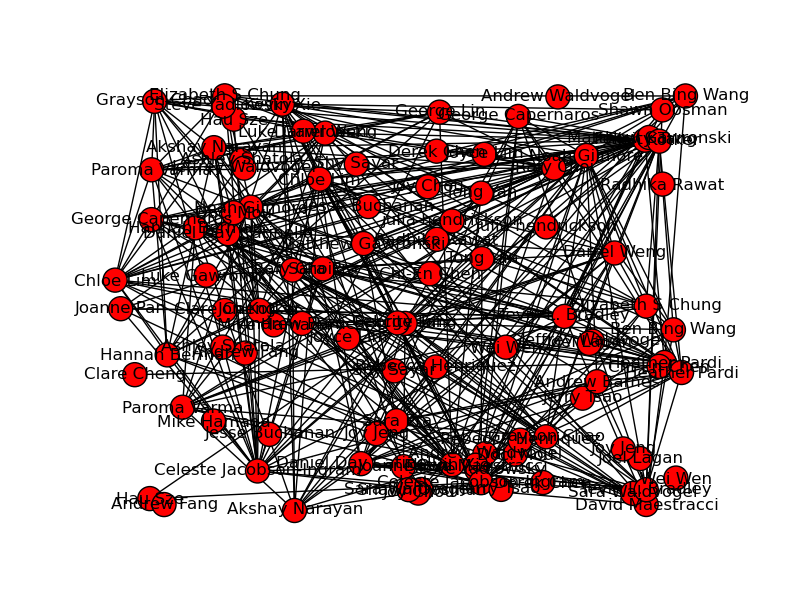
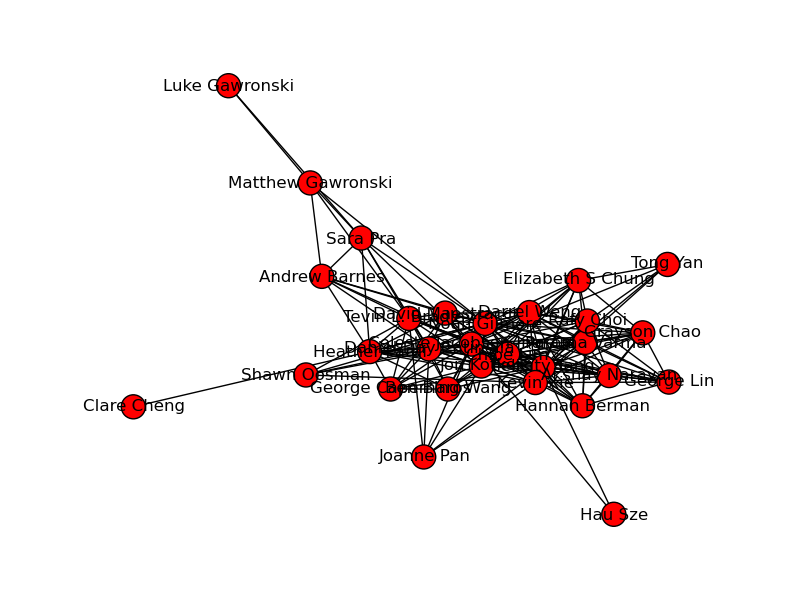
NF: added crawl.FBGraph.prune_friends(): removes friends from friend_graph that have no similar likes to any other friends

diff --git a/crawl.py b/crawl.py
@@ -40,8 +40,8 @@ class FBGraph:
             print f.name
             likes = f.get_likes() 
             print [l.name for l in likes]
-            #if len(likes) == 0:
-            #    bp_graph.remove_node(f.name)
+            if len(likes) == 0:
+                self.bp_graph.remove_node(f.name)
             for l in likes:
                 if not self.bp_graph.has_node(l.name):
                     self.bp_graph.add_node(l.name, uid = l.uid, bipartite = 1)
@@ -63,6 +63,11 @@ class FBGraph:
                 self.friend_graph.add_edge(f1, f2, weight = 0) 
             self.friend_graph[f1][f2]['weight'] += 1
 
+    def prune_friends(self):
+        for f in self.friend_graph.nodes():
+            if not self.friend_graph.neighbors(f):
+                self.friend_graph.remove_node(f) 
+
     def run(self):
         data = self.get_friends()
         for line in data:
@@ -71,12 +76,13 @@ class FBGraph:
         self.add_friend_nodes(friends)
         self.add_likes(friends)
         friend_graph = self.get_friend_graph()
+        self.prune_friends()
         print '\n'
         print nx.clustering(friend_graph)
         print '\n'
         for edge in sorted(friend_graph.edges(data=True), key= lambda x: -1*x[2].get('weight', 1)):
             print edge
-        nx.draw_random(friend_graph)
+        nx.draw(friend_graph)
         plt.savefig('graph.png')
 
 class Page:

diff --git a/server.py b/server.py
@@ -2,7 +2,7 @@ import bottle
 import urllib
 import facebook
 import crawl
-
+import os
 
 app_id = '409886029080423'
 app_secret = '65045404878c33bac7b538f6f6dbeab9'
@@ -53,6 +53,7 @@ def home():
 @app.route('/logout')
 def logout():
     bottle.response.delete_cookie('access_token') 
+    os.remove('graph.png')
 
 @app.route('/loading')
 def loading():
